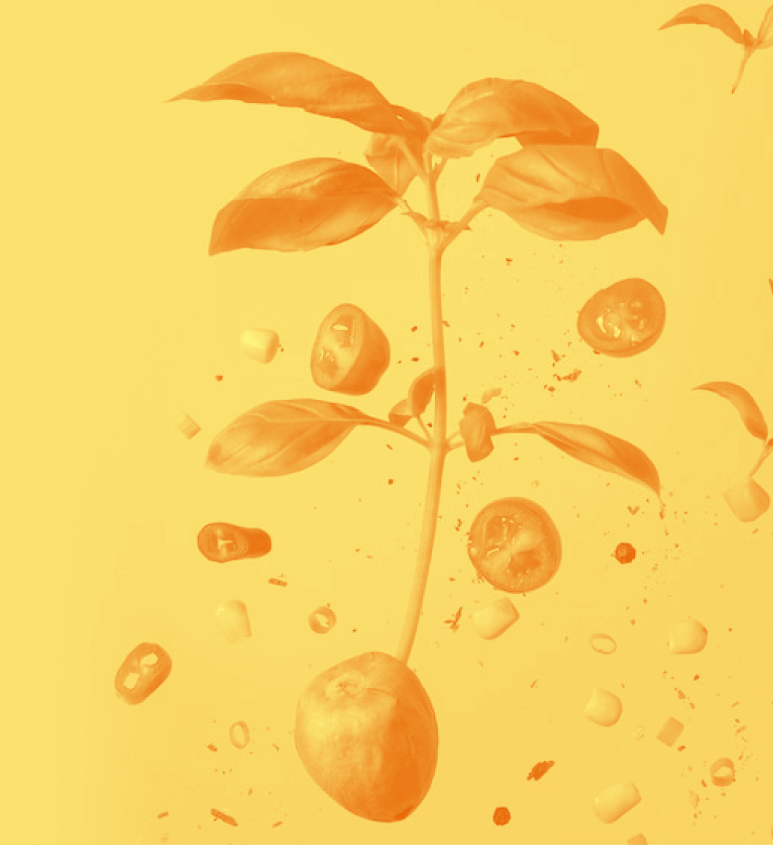
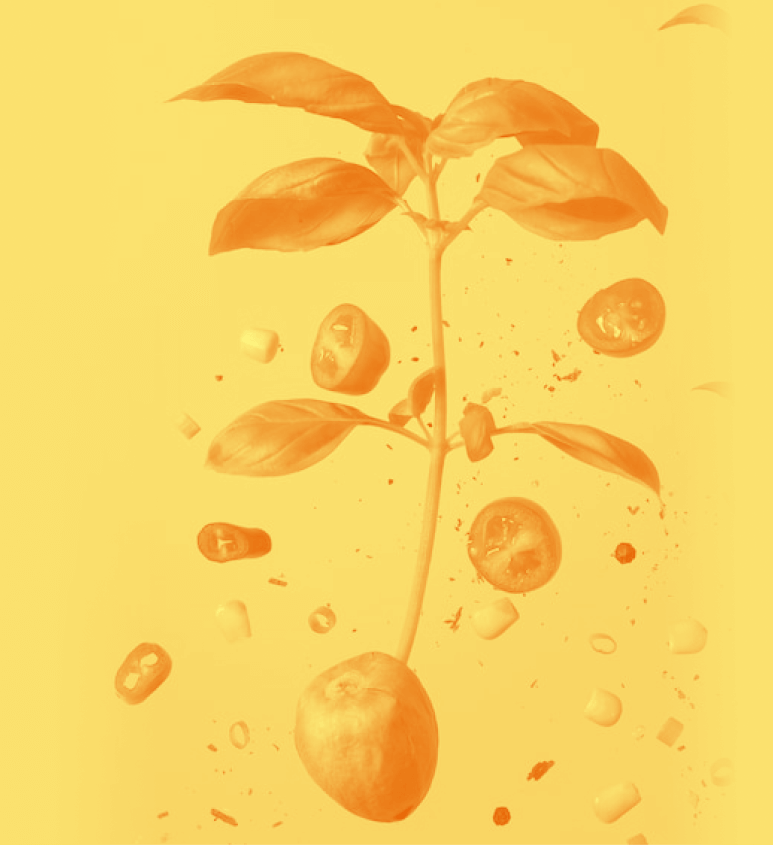
Update Hero component and images

diff --git a/styles/general/Hero.module.css b/styles/general/Hero.module.css
@@ -13,7 +13,7 @@
   background-color: #fae16e;
   background-image: url("../../assets/general/banner/home-banner-2.png");
   background-repeat: no-repeat;
-  background-position: left 0rem top -2rem;
+  background-position: left 0rem top -4rem;
 }
 
 .somos {
@@ -25,7 +25,7 @@
 
 .hacemos {
   background-color: #e16a35;
-  background-image: url("../../assets/general/banner/hacemos-banner.png");
+  background-image: url("../../assets/general/banner/hacemos-banner-2.png");
   background-repeat: no-repeat;
   background-position: left 0rem top -2rem;
 }
@@ -34,7 +34,23 @@
   background-color: #ffe2e3;
   background-image: url("../../assets/general/banner/convocamos-banner.png");
   background-repeat: no-repeat;
-  background-position: left 3rem top -2rem;
+  background-position: left 3rem top -3rem;
+}
+
+.home .hero__subtitle {
+  color: var(--orange);
+}
+
+.somos .hero__title {
+  color: var(--white);
+}
+
+.hacemos .hero__title {
+  color: var(--yellow);
+}
+
+.convocamos .hero__title {
+  color: var(--orange);
 }
 
 @media screen and (min-width: 765px) {
@@ -53,5 +69,45 @@
   .hero__text__wrapper {
     max-width: 60%;
     margin: 0rem 3rem;
+  }
+}
+
+@media screen and (min-width: 1023px) {
+  .home,
+  .somos,
+  .convocamos,
+  .hacemos {
+    background-position: right -3rem top 0rem;
+  }
+
+  .hero__text__wrapper {
+    margin: 0rem 4rem;
+    gap: 3rem;
+    max-width: 55%;
+  }
+}
+
+@media screen and (min-width: 1365px) {
+  .hero__text__wrapper {
+    max-width: 60%;
+    margin: 0rem 6rem;
+  }
+}
+
+@media screen and (min-width: 1915px) {
+  .hero__wrapper {
+    max-width: 75rem;
+    margin: 0 auto;
+  }
+
+  .home,
+  .somos,
+  .hacemos,
+  .convocamos {
+    background-position: right 18rem top 0rem;
+  }
+
+  .hero__text__wrapper {
+    margin: 0rem;
   }
 }

diff --git a/components/general/Hero.jsx b/components/general/Hero.jsx
@@ -5,13 +5,13 @@ import json from "../../data/general/hero.json";
 const Hero = ({ children, type }) => {
   return (
     <header className={`${styles.hero} ${styles[type]}`}>
-      <div>
+      <div className={styles.hero__wrapper}>
         <div className={styles.hero__text__wrapper}>
           <h1>
-            <span>{json[type].title}</span>
-            <span>{json[type].subtitle}</span>
+            <span className={styles.hero__title}>{json[type].title}</span>
+            <span className={styles.hero__subtitle}>{json[type].subtitle}</span>
           </h1>
-          <p>
+          <p className={styles.hero__text}>
             <strong>{json[type].textBold}</strong>
             {json[type].textRegular}
           </p>

diff --git a/styles/globals.css b/styles/globals.css
@@ -60,12 +60,22 @@ small {
 }
 
 @media screen and (min-width: 1023px) {
+  h1 {
+    font-size: 2.5rem;
+  }
+
   h2 {
     font-size: 2rem;
   }
 
   p {
     font-size: 1.125rem;
+  }
+}
+
+@media screen and (min-width: 1365px) {
+  h1 {
+    font-size: 3.5rem;
   }
 }
 
